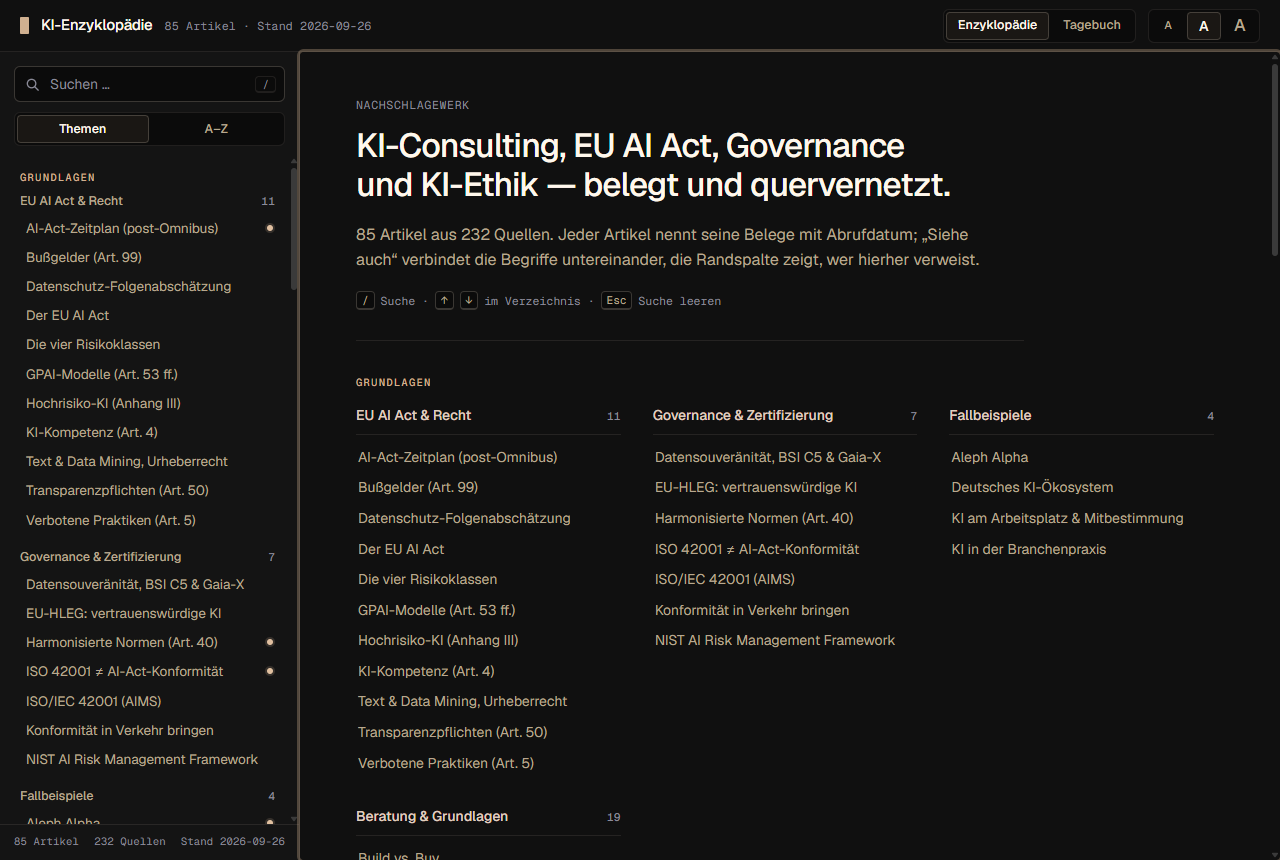
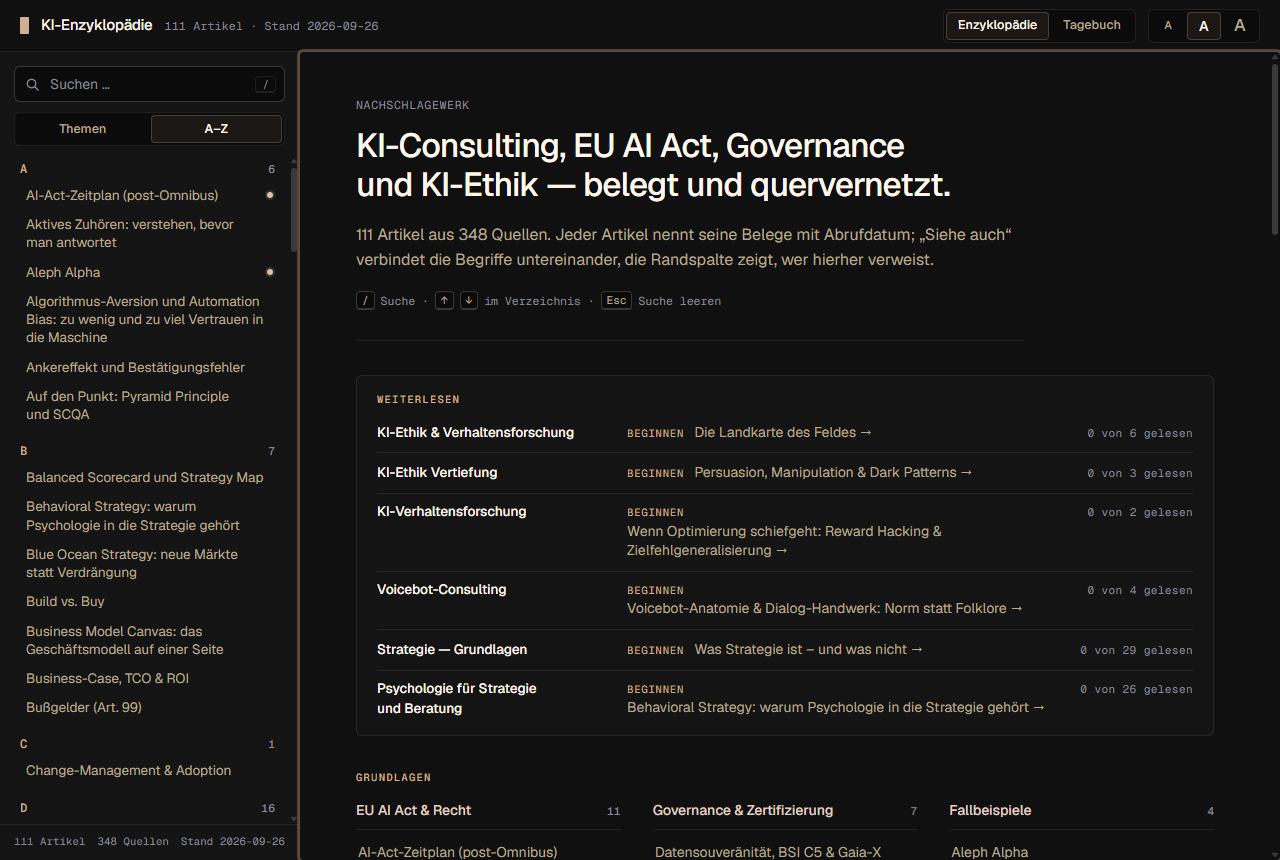
Doku und Screenshots: Bedienung, Datensicherung, Übergabe; Beweis liest den Pfad aus der Fußzeile

diff --git a/docs/NEXT-SESSION.md b/docs/NEXT-SESSION.md
@@ -1,55 +1,71 @@
 # Übergabe an die nächste Sitzung
 
-Stand: 2026-09-26 (spät). Auftrag des Abends: Strategiebereich ausbauen, Fokus
-Psychologie — umgesetzt als zweite eigene Sammlung.
+Stand: 2026-09-27 (Nacht). Auftrag: „überleg dir sinnvolle Verbesserungen für den
+Kalender und die App“ → Vorschlagsliste → User: „ja leg los“, dann „ich bin schlafen,
+keine Stopps oder Fragen, mach so weit du kommst“. Alles außer den zwei Punkten
+umgesetzt, die eine Antwort des Users brauchen (siehe „Offen“).
 
 ## Was heute entstanden ist
 
-1. **Sammlung „Psychologie für Strategie und Beratung“** (26 Artikel, 119 Quellenangaben,
-   ~19.000 Wörter) unter `src/inhalt/sammlungen/psychologie/` in vier Blöcken, alle
-   gleich gewichtet (User-Entscheid 26.09.2026): 1 Denken und Entscheiden (Behavioral
-   Strategy, zwei Systeme/Heuristiken, Prospect Theory, Anker/Bestätigung, Sunk Cost,
-   Status quo/Default, Intuition/Expertise) · 2 Menschen im Gespräch (Cialdini,
-   Wärme/Kompetenz/Halo, Vertrauensmodell, aktives Zuhören, Verhandeln, Rat/Reaktanz) ·
-   3 Gruppen, Führung, Veränderung (Gruppendenken/Konformität, psychologische Sicherheit,
-   Motivation, Widerstand, Macht/Mikropolitik, Führung/EI, Organisationskultur) ·
-   4 Kunde, Markt, Technikakzeptanz (Nudge, Preispsychologie, TAM/UTAUT,
-   Algorithmus-Aversion/Automation Bias, Diffusion, Abschluss „Befunde richtig lesen“).
-   Neues Thema `psychologie`. Querverweise in beide Richtungen: aus Strategie-Artikeln
-   (Entscheidungen prüfen, Beratungsgespräch, Ziele/OKR, Umsetzung, KI-Strategie) und zu
-   Akademie-Artikeln (change-management, nudging-autonomie-empfehlungssysteme,
-   persuasion-dark-patterns, mensch-ki-verhalten, sycophancy-artikel, halluzination …).
-2. **Quellenprüfung**: 116 von 125 Kandidaten im ersten Lauf bestätigt (DOI-Metadaten
-   über Crossref; Webseiten per Abruf), neun ersetzt oder gestrichen (McKinsey,
-   HarperCollins, Macmillan, Simon & Schuster, utb: 403; Google re:Work: 404). Skripte
-   liegen nicht im Repo (Scratch); das Verfahren steht in `CLAUDE.md` und README.
-3. **Bugfix A–Z-Register**: Umlaut-Titel („Überzeugen …“) bildeten eine eigene Ü-Gruppe,
-   die die deutsche Sortierung zerriss (Test brach). Jetzt Grundbuchstabe (Ü → U,
-   DIN 5007-1), mit Test.
-4. **Neuer Test** „eigene Sammlungen (Autorenvertrag)“: 2–5 Quellen, ≥ 3 Abschnitte,
-   Schluss „Grenzen und Kritik“/„Typische Fehler“, mindestens ein Querverweis — gilt
-   für alle eigenen Sammlungen.
+1. **Sicherung der Tagebuch-Datei** (technische Entscheidung, ohne Rückfrage):
+   `tauri-plugin-store` (schrieb mit `fs::write`, nicht atomar) ersetzt durch eigene
+   Commands in `src-tauri/src/lib.rs` — `.tmp` + fsync + rename, vorher
+   `tagebuch.bak.json` (nur wenn die bisherige Datei gültiges JSON ist). Rust-Tests dafür.
+   Frontend (`speicher.ts`): leere/defekte Datei = Fehler mit Hinweis auf die Sicherung,
+   nur eine fehlende Datei = leeres Tagebuch.
+2. **Tagebuch-Suche** (`src/tagebuch/suche.ts`, Suchfeld über dem Kalender, `/`):
+   Text + Ereignis-Bezeichnung, AND über alle Wörter, umlaut-tolerant, chronologisch
+   neueste zuerst, Snippet mit `<mark>`, Treffertage im Kalender unterstrichen, Rest gedimmt.
+3. **Offene Fragen**: Zeilen mit „?“ am Anfang → Abteilung „Offene Fragen“ in der
+   Seitenleiste (neueste zuerst, Datum als Link) + Zähler „Fragen“ in der Randspalte des
+   Tages. Placeholder im Textfeld erklärt die Konvention.
+4. **Rückblick**: Randspalte des Tages zeigt den vorherigen Eintrag (Datum, Ereignis,
+   bis zu drei Zeilen Vorschau) als Link; „Nächster“ bleibt.
+5. **Jahresübersicht**: Klick auf den Monatsnamen → zwölf Monate mit Zählern
+   (Einträge/Ereignisse), Pfeile blättern Jahre, Klick auf Monat → zurück ins Raster.
+6. **Kalenderwochen** (ISO, Donnerstag-Regel) als schmale Spalte; **nächstes Ereignis**
+   ab heute unter dem Kalender („in 5 Tagen · Kickoff …“).
+7. **Tastatur**: Pfeiltasten über den Monatsrand hinaus (Monat wechselt, Fokus folgt),
+   `Bild↑`/`Bild↓` Monatswechsel, `↑`/`↓` in den Listen, `Esc` leert die Suche.
+8. **Export**: Fußzeile „Exportieren“ → eine Markdown-Datei aller Tage
+   (`src/tagebuch/export.ts`; nativ Dialog-Plugin + Command `datei_schreibe`, Browser
+   Download). Rückmeldung am Knopf („Exportiert ✓“), Fehler als Meldung über der Fußzeile.
+9. **Lesestrecke** (`enzyklopaedie.lesestrecke(id)`): am Artikelende Zurück · Gelesen ·
+   Weiter, Randspalte „Lesestrecke 3 von 29“. Gilt für alle Sammlungen außer Grundlagen
+   (auch die kleinen Akademie-Sammlungen — konsistent mit `gliederung()`).
+10. **Lesefortschritt** (`src/lesefortschritt.ts`, localStorage): Knopf am Artikelende,
+    „Weiter“ markiert mit, Marke „Gelesen“ im Kopf, Haken im Register (Themen und A–Z),
+    Startseite „Weiterlesen“ je Lesestrecke (Stand + nächster ungelesener Artikel).
+11. **Kleinkram**: Zurück/Vor stellt die Scrollposition wieder her (Navigation API);
+    `tauri-plugin-window-state` merkt Fenstergröße/-lage; `Markiert` als eigene Komponente.
 
 ## Prüfstand
 
-`npm test` (62 Tests) · `npm run lint` · `npm run build` grün. Screenshot des
-Web-Previews: `docs/bilder/preview-artikel-psychologie.png` (Register mit beiden
-Sammlungen + Artikel). Nativer Build heute NICHT neu erzeugt (nur Inhalt geändert,
-keine Änderung an `src-tauri/`).
+`npm test` (87 Tests) · `npm run lint` · `npm run build` · `cargo test` (5) grün.
+Web-Preview-Screenshots unter `docs/bilder/preview-*.png` (Tagebuch, Suche, Jahr, Start,
+Artikel, Lesestrecke) — im Preview geprüft: Suche, Jahresübersicht, Scrollposition bei
+`history.back()`. Nativer Build und `npm run nativ:beweis`: siehe letzte Meldung der
+Sitzung bzw. `docs/bilder/nativ-*.png` (Datum prüfen).
 
 ## Fallen, die heute bissen
 
-- Der A–Z-Test prüft die Gruppenreihenfolge per `localeCompare('de')` — jede neue
-  Sammlung mit Umlaut-Anfangstitel hätte ihn gebrochen; jetzt behoben (s. o.).
-- Crossref liefert für JSTOR-DOIs alter AER-Jahrgänge 404 (Kahneman/Knetsch/Thaler 1986
-  AER); Ausweich auf den Journal-of-Business-Artikel derselben Autoren (DOI vorhanden).
-- Lange TS-Dateien nur über das Write-Tool schreiben (Bash-Heredoc-Falle bleibt).
+- Ein Preview-Server einer früheren Sitzung hielt Port 4173 (serviert aber das frische
+  `dist/`, weil `vite preview` von der Platte liest).
+- Die laufende App reagierte nicht auf `CloseMainWindow()`; `Stop-Process` nötig, damit
+  `tauri build` die .exe ersetzen kann und der Beweis den Debug-Port bekommt.
+- Bash-Tool: `$p` in doppelt zitierten PowerShell-Aufrufen wird von der Shell expandiert
+  → PowerShell-Tool nehmen. Lange Python/CSS-Patches nicht als Heredoc, sondern als
+  Datei im Scratchpad (Write-Tool) und dann ausführen.
+- `cargo search`/`cargo info` zeigen für Tauri-Plugins nur `3.0.0-alpha`; `"2"` in
+  `Cargo.toml` löst trotzdem auf 2.x auf (dialog 2.8.0, window-state 2.5.0).
 
-## Offen / Ideen (nicht beauftragt)
+## Offen (brauchen eine Antwort des Users)
 
-- Weitere Strategie-Blöcke (Preisstrategie, Partnerschaften/M&A, Wardley Maps) — erst
-  nach Rücksprache: Was sieht der User in den Meetings?
-- Psychologie: mögliche Ergänzungen wären Stress/Belastung in Veränderungsprojekten,
-  Kommunikation in Präsentationen (Aufmerksamkeit, Gedächtnis), kulturübergreifende
-  Verhandlung — ebenfalls nur nach Rücksprache.
-- Tagebuch-Export als Markdown/Text; `preflight`-Backup der `tagebuch.json`.
+- **Zwei Rechner**: Das Tagebuch liegt pro Rechner lokal. Nutzt der User die App auf PC
+  und Laptop, müsste der Speicherordner wählbar werden (z. B. OneDrive) — samt
+  Konfliktregel (jüngeres `geaendert` je Tag gewinnt) und Neuladen bei Fensterfokus.
+- **Artikel aus dem Tagebuch verknüpfen**: Tag ↔ Artikel (Feld `artikel: string[]` im
+  Eintrag, Auswahl per Tippen; Randspalte des Artikels „Im Tagebuch: 14.10.2026“). Nur,
+  wenn der User das wirklich nutzen würde.
+- Inhaltliche Ideen von gestern (weitere Strategie-Blöcke, Psychologie-Ergänzungen)
+  bleiben offen — erst nach Rücksprache.

diff --git a/README.md b/README.md
@@ -31,25 +31,47 @@ Beide Quellen laufen durch denselben Load-Guard; Querverweise zeigen in beide Ri
 | Suchen | `/` springt ins Suchfeld; Titel, Synonyme und Fließtext, umlaut-tolerant (`bussgeld` findet „Bußgeld“) |
 | Verzeichnis | Themen (Grundlagen nach Thema, Sammlungen in Lesereihenfolge) oder A–Z; `↑`/`↓` wandern, `Enter` öffnet |
 | Lesen | Lede, Rumpf (bei langen Artikeln gegliedert, mit Inhaltsverzeichnis), „Siehe auch“, Quellen, „Verweist hierher“ |
-| Tagebuch | Tag im Kalender anklicken, schreiben — gespeichert wird von selbst (500 ms nach der letzten Änderung, sofort beim Verlassen); `Ctrl+S` erzwingt es. „Besonderes Ereignis“ markiert den Tag gold und gibt ihm eine Bezeichnung. Pfeiltasten wandern im Kalender, `Heute` springt zurück |
+| Lesestrecke | Artikel der Sammlungen (Strategie, Psychologie, Akademie-Sammlungen) haben am Ende **Zurück / Weiter** in Lesereihenfolge; die Randspalte zeigt „Lesestrecke 3 von 29“ |
+| Lesefortschritt | „Als gelesen markieren“ am Artikelende (oder „Weiter“ klicken) setzt einen Haken im Register und die Marke „Gelesen“; die Startseite zeigt je Lesestrecke „Weiterlesen“ mit dem nächsten ungelesenen Artikel. Wird lokal gemerkt |
+| Tagebuch | Tag im Kalender anklicken, schreiben — gespeichert wird von selbst (500 ms nach der letzten Änderung, sofort beim Verlassen); `Ctrl+S` erzwingt es. „Besonderes Ereignis“ markiert den Tag gold und gibt ihm eine Bezeichnung; das nächste Ereignis ab heute steht unter dem Kalender. Die Randspalte zeigt den vorherigen Eintrag als Rückblick |
+| Offene Fragen | Eine Zeile, die mit `?` beginnt, sammelt die Seitenleiste unter „Offene Fragen“ (neueste zuerst, Datum als Link). Fragezeichen entfernen = Frage erledigt |
+| Tagebuch-Suche | Suchfeld über dem Kalender (`/`), Text und Ereignis-Bezeichnung, umlaut-tolerant; Treffer chronologisch mit Ausschnitt, Treffertage im Kalender unterstrichen |
+| Kalender | Kalenderwoche (KW) am Zeilenanfang; Klick auf den Monatsnamen öffnet die Jahresübersicht (zwölf Monate mit Zählern); Pfeiltasten wandern im Raster und über den Monatsrand hinaus, `Bild↑`/`Bild↓` wechseln den Monat, `Heute` springt zurück |
+| Export | Fußzeile der Tagebuch-Seitenleiste: **Exportieren** schreibt alle Tage als eine Markdown-Datei (nativ über Speichern-Dialog, im Browser als Download) |
 | Schriftgröße | Kopfzeile rechts (Kompakt/Normal/Groß), gilt für Lesetext und Tagebuch, wird lokal gemerkt |
+| Zurück/Vor | Die Zurück-Taste kehrt an die alte Leseposition zurück; ein Link beginnt oben. Das native Fenster merkt sich Größe und Lage |
 | Deep-Link | `#/artikel/<id>` (z. B. `#/artikel/strategie-begriff`), `#/tagebuch` (heute), `#/tagebuch/2026-09-26` |
 
 ![Tagebuch](docs/bilder/preview-tagebuch.png)
 
+![Tagebuch-Suche](docs/bilder/preview-tagebuch-suche.png)
+
+![Jahresübersicht](docs/bilder/preview-tagebuch-jahr.png)
+
+![Startseite mit Weiterlesen](docs/bilder/preview-start.png)
+
 ![Strategie-Artikel](docs/bilder/preview-artikel-strategie.png)
+
+![Lesestrecke am Artikelende](docs/bilder/preview-artikel-lesestrecke.png)
 
 ![Psychologie-Artikel](docs/bilder/preview-artikel-psychologie.png)
 
 ## Tagebuch: wo die Daten liegen
 
 - **Native App (Windows):** `%APPDATA%\de.evenacadia.ki-enzyklopaedie\tagebuch.json`,
-  geschrieben über das Tauri-Store-Plugin. Eine Datei, die sich kopieren und sichern
-  lässt; Format `{ "version": 1, "tage": { "YYYY-MM-DD": { text, markiert, ereignis, geaendert } } }`.
+  gelesen und geschrieben über eigene Tauri-Commands (`src-tauri/src/lib.rs`). Geschrieben
+  wird atomar: erst `tagebuch.json.tmp` (mit fsync), dann Umbenennen — die Datei ist nie
+  halb. Vor jedem Schreiben wird die bisherige Fassung als **`tagebuch.bak.json`** im
+  selben Ordner abgelegt (nur, wenn sie gültiges JSON ist). Eine Datei, die sich kopieren
+  und sichern lässt; Format
+  `{ "version": 1, "tage": { "YYYY-MM-DD": { text, markiert, ereignis, geaendert } } }`.
   Die Seitenleiste zeigt den Pfad als Tooltip der Fußzeile.
 - **Browser (Preview):** localStorage-Schlüssel `ki-enzyklopaedie.tagebuch.v1`.
-- Ein Ladefehler (defekte oder neuere Datei) sperrt das Schreiben und wird angezeigt —
-  nie wird eine leere Kopie über echte Daten geschrieben.
+- Ein Ladefehler (leere, defekte oder neuere Datei) sperrt das Schreiben und wird mit
+  Hinweis auf die Sicherungskopie angezeigt — nie wird eine leere Kopie über echte Daten
+  oder über die Sicherungskopie geschrieben. Nur eine fehlende Datei ist ein leeres Tagebuch.
+- **Lesefortschritt:** localStorage-Schlüssel `ki-enzyklopaedie.gelesen.v1` (Liste von
+  Artikel-IDs), im nativen Fenster im WebView2-Profil der App.
 
 ## Gestaltung
 
@@ -102,12 +124,13 @@ Verlagsseite Abrufe per Skript blockiert.
 
 ```
 src/inhalt/      artikel.json (Akademie-Export) · sammlungen/ (eigene Sammlungen, vereinige) · typen.ts · index.ts (Load-Guard, Register, Rückverweise)
-src/tagebuch/    modell.ts (Kalender-Arithmetik, Datenformat) · speicher.ts (Datei/Browser) · zustand.ts (verzögerte Sicherung)
+src/tagebuch/    modell.ts (Kalender-Arithmetik, KW, Fragen, Jahresbilanz, Datenformat) · speicher.ts (Datei/Browser) · zustand.ts (verzögerte Sicherung) · suche.ts · export.ts (Markdown)
 src/suche/       Suche mit Faltung, Ranking, Snippets, Hervorhebung
-src/komponenten/ Kopf (Bereichs-Umschalter) · Seitenleiste · ArtikelAnsicht · Start · NichtGefunden · TagebuchLeiste · TagebuchAnsicht
+src/komponenten/ Kopf (Bereichs-Umschalter) · Seitenleiste · ArtikelAnsicht (mit Lesestrecke) · Start (mit Weiterlesen) · NichtGefunden · TagebuchLeiste (Suche, Kalender, Jahr, Fragen, Export) · TagebuchAnsicht · Markiert
 src/router.ts    Hash-Router (#/, #/artikel/<id>, #/tagebuch[/<datum>])
 src/einstellungen.ts  Schriftgröße + Register-Modus (localStorage)
-src-tauri/       dünne Tauri-2-Hülle (ein Fenster, Opener-Plugin für Quellen-Links, Store-Plugin für das Tagebuch)
+src/lesefortschritt.ts  gelesene Artikel (localStorage)
+src-tauri/       dünne Tauri-2-Hülle (ein Fenster, Opener-Plugin für Quellen-Links, Dialog-Plugin für den Export, Window-State-Plugin, eigene Commands für tagebuch.json mit Sicherungskopie)
 scripts/         export-aus-akademie.mts · gen-icon.mjs · nativ-beweis.mjs
 docs/            NEXT-SESSION.md (Übergabe) · bilder/ (Screenshots)
 ```

diff --git a/CLAUDE.md b/CLAUDE.md
@@ -6,8 +6,15 @@ persönliches Tagebuch mit Kalender. Kein Quiz, kein RAG, kein Konto.
 User-Entscheide 26.09.2026: „reine enzyklopädie app, kein RAG oder sonstige unnötige
 features“; später am selben Tag ergänzt um (1) mehr Wissensinhalt zum Thema Strategie
 und (2) eine Tagebuch-Funktion mit Kalenderübersicht, dauerhaft gespeichert, Tage für
-besondere Ereignisse markierbar. Persistenz gibt es deshalb genau dreifach: zwei
-localStorage-Einstellungen (Schrift, Register) und das Tagebuch.
+besondere Ereignisse markierbar. Persistenz gibt es deshalb genau vierfach: drei
+localStorage-Stände (Schrift, Register, gelesene Artikel — Letzteres seit 27.09.2026 als
+Lesezeichen für die Lesestrecken) und das Tagebuch. Ausbau 27.09.2026 (User: „ja leg
+los“ auf die Vorschlagsliste): Tagebuch-Suche, offene Fragen (Zeilen mit „?“), Rückblick,
+Jahresübersicht, Kalenderwochen, nächstes Ereignis, Markdown-Export, Sicherungskopie,
+Lesestrecke Vor/Zurück, Lesefortschritt, Scrollposition bei Zurück, Fensterlage merken.
+Bewusst NICHT gebaut: Kategorien/Tags über „Ereignis“ hinaus, Textformatierung im
+Tagebuch, Statistiken/Streaks. Offen (brauchen eine Antwort des Users): Tagebuch auf
+zwei Rechnern (Speicherordner wählbar) und Artikel-Verknüpfung aus Tagebuchtagen.
 
 **Design (User-Entscheid 26.09.2026):** Farbwelt = Windows-Terminal-Schema
 „Nakama Champagne Night“ (das Dirigenten-Terminal, NICHT das Nakama-Plugin-Design).
@@ -63,11 +70,26 @@ Zwei Quellen, ein Load-Guard (`src/inhalt/index.ts` → `vereinige` in
 - Modell/Kalender-Arithmetik in `src/tagebuch/modell.ts` (Woche ab Montag, immer 42
   Zellen, Datumsrechnen in UTC, Anzeige lokal), Zustand mit verzögerter Sicherung in
   `zustand.ts` (500 ms nach der letzten Änderung, sofort bei Blur/Tageswechsel/Schließen).
-- Speicher: nativ `tagebuch.json` im App-Datenordner über `tauri-plugin-store`
-  (Windows: `%APPDATA%\de.evenacadia.ki-enzyklopaedie\tagebuch.json`); im Browser
-  localStorage `ki-enzyklopaedie.tagebuch.v1`. Ein Ladefehler sperrt das Schreiben —
-  nie eine leere Kopie über echte Daten schreiben. Datenformat `{ version: 1, tage }`.
+- Speicher: nativ `tagebuch.json` im App-Datenordner über eigene Tauri-Commands in
+  `src-tauri/src/lib.rs` (`tagebuch_lese`, `tagebuch_schreibe`, `tagebuch_pfad`;
+  Windows: `%APPDATA%\de.evenacadia.ki-enzyklopaedie\tagebuch.json`). Schreiben ist
+  atomar (`.tmp` + fsync + rename) und legt vorher `tagebuch.bak.json` ab — aber nur,
+  wenn die bisherige Datei gültiges JSON ist (eine defekte Datei darf die Sicherung nicht
+  überschreiben). Im Browser localStorage `ki-enzyklopaedie.tagebuch.v1`. Ein Ladefehler
+  sperrt das Schreiben — nie eine leere Kopie über echte Daten schreiben; eine LEERE
+  Datei ist deshalb ein Fehler, nur eine FEHLENDE ein leeres Tagebuch (`parseDatei` in
+  `speicher.ts`). Datenformat `{ version: 1, tage }`.
 - Routen `#/tagebuch` (heute) und `#/tagebuch/<YYYY-MM-DD>`; Tage sind Links.
+- Konventionen ohne neues Datenfeld: Zeilen mit „?“ am Anfang sind offene Fragen
+  (`fragenImText`/`offeneFragen` in `modell.ts`); der Kalender zeigt ISO-Kalenderwochen
+  (`kalenderwoche`, Donnerstag-Regel, mit Tests für 53-Wochen-Jahre).
+- Export: `src/tagebuch/export.ts` → Markdown; nativ `@tauri-apps/plugin-dialog`
+  (`save`) + Command `datei_schreibe`, im Browser Blob-Download.
+- Lesefortschritt (Enzyklopädie): `src/lesefortschritt.ts`, localStorage
+  `ki-enzyklopaedie.gelesen.v1`; Lesestrecke Vor/Zurück aus `enzyklopaedie.lesestrecke(id)`
+  (nur Sammlungen, nicht Grundlagen). „Weiter“ markiert den aktuellen Artikel als gelesen.
+- Scrollposition bei Zurück/Vor: Navigation API (`navigate`-Event, `navigationType ===
+  'traverse'`) in `App.tsx`; ohne diese API (jsdom) beginnt jede Route oben.
 
 ## Fallen
 
@@ -77,8 +99,15 @@ Zwei Quellen, ein Load-Guard (`src/inhalt/index.ts` → `vereinige` in
   verweigert“, und `tauri build` endet TROTZDEM mit Exit-Code 0 — die alte .exe bleibt
   liegen. Eine zweite Instanz hängt sich zudem an den WebView2-Prozess der ersten; der
   Debug-Port für `npm run nativ:beweis` ist dann nicht erreichbar.
-- `tauri-plugin-store` in `Cargo.toml` auf `"2"` halten; crates.io führt bereits eine
-  `3.0.0-alpha` (für Tauri 3). npm-Paket `@tauri-apps/plugin-store` ^2.x passend.
+- Tauri-Plugins in `Cargo.toml` auf `"2"` halten (`tauri-plugin-opener`, `-dialog`,
+  `-window-state`); crates.io führt bereits `3.0.0-alpha` (für Tauri 3), `cargo search`
+  und `cargo info` zeigen nur diese. npm-Pakete `@tauri-apps/plugin-*` ^2.x passend.
+  `tauri-plugin-store` wird seit 27.09.2026 nicht mehr benutzt (es schrieb mit
+  `fs::write`, nicht atomar).
+- Eine laufende Instanz reagiert nicht auf `CloseMainWindow()`; vor einem Build
+  `Stop-Process -Name ki-enzyklopaedie` (das Tagebuch ist spätestens 500 ms nach der
+  letzten Änderung gesichert). Bash-Tool: `$p` in doppelten Anführungszeichen wird von
+  der Shell expandiert — PowerShell-Skripte über das PowerShell-Tool ausführen.
 - `tauri icon` erzeugt auch `icons/android` und `icons/ios`; `npm run tauri:icon`
   entfernt sie wieder. Nicht einchecken.
 - Externe Links im nativen Fenster laufen über `@tauri-apps/plugin-opener`
